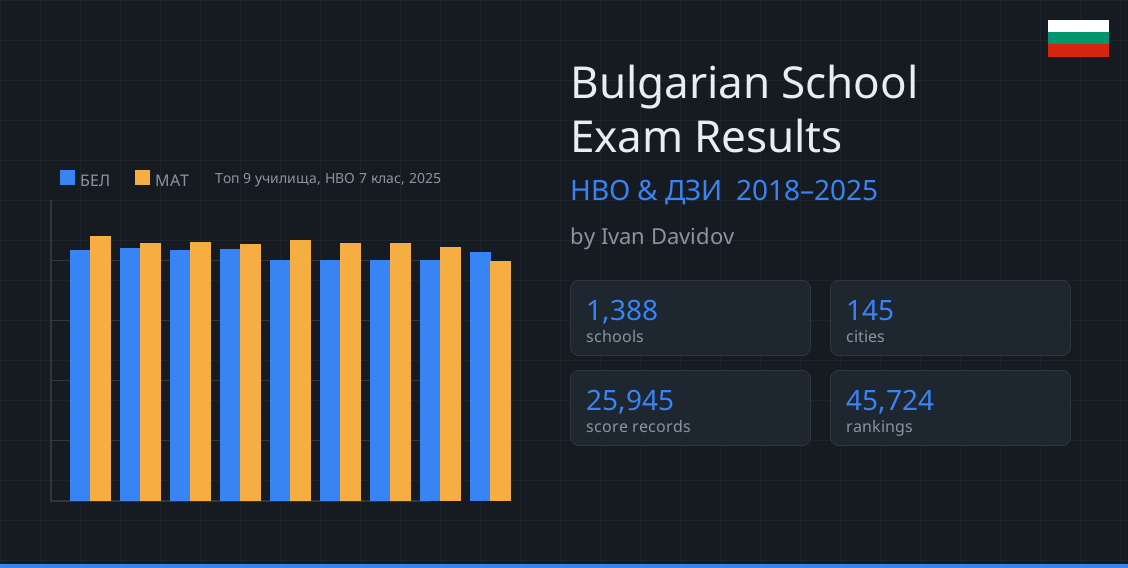
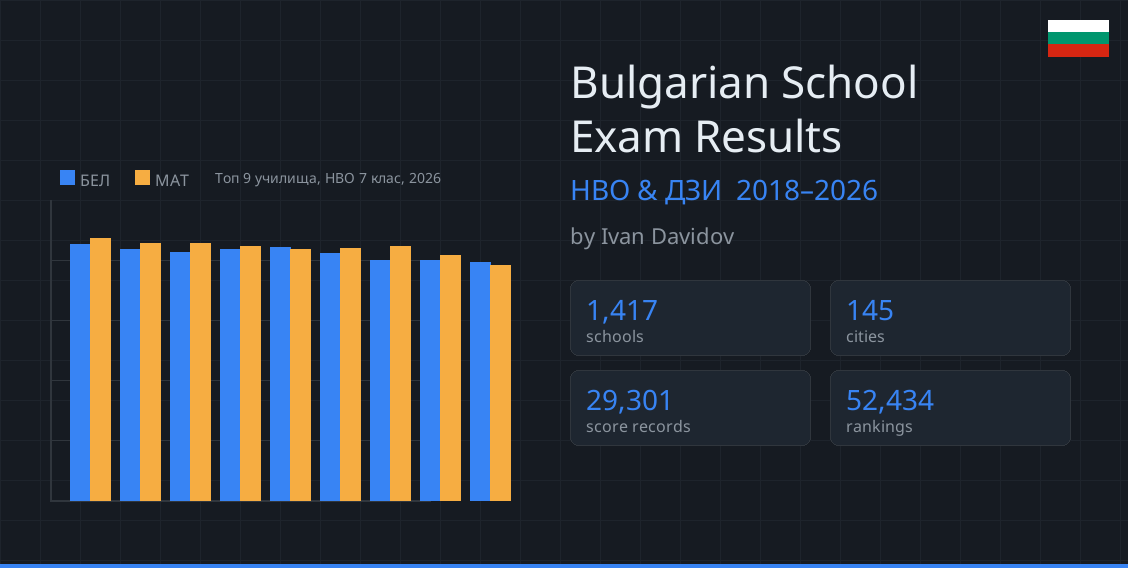
Refresh Kaggle dataset for 2026 data
- prepare.py: derive years from API yearsRange and ranking files
  instead of hardcoded 2018-2025
- README: 2018-2026 coverage, new row counts, placeholder-years caveats
- cover: regenerated with 2026 top-9 chart and updated stat tiles
- kernel-metadata.json: enable notebook publishing via kaggle CLI
- AGENTS.md: document notebook push workflow, refresh row counts

diff --git a/kaggle/prepare.py b/kaggle/prepare.py
@@ -35,8 +35,6 @@ with open(os.path.join(OUT, 'cities.csv'), 'w', newline='', encoding='utf-8') as
 print('cities.csv')
 
 # --- scores.csv (main dataset: one row per school per grade per year) ---
-YEARS = list(range(2018, 2026))
-
 with open(os.path.join(OUT, 'scores.csv'), 'w', newline='', encoding='utf-8') as f:
     w = csv.writer(f)
     w.writerow(['grade', 'year', 'city', 'school_code', 'bel_score', 'mat_score', 'bel_students', 'mat_students'])
@@ -45,6 +43,7 @@ with open(os.path.join(OUT, 'scores.csv'), 'w', newline='', encoding='utf-8') as
         data_path = os.path.join(API, grade, 'data.json')
         with open(data_path) as gf:
             grade_data = json.load(gf)
+        YEARS = grade_data['yearsRange']
 
         for city_slug, city_info in grade_data['cities'].items():
             for school_code, school in city_info['schools'].items():
@@ -72,12 +71,14 @@ with open(os.path.join(OUT, 'rankings.csv'), 'w', newline='', encoding='utf-8') 
     w = csv.writer(f)
     w.writerow(['grade', 'year', 'type', 'rank', 'adjusted_rank', 'school_code', 'city', 'bel_score', 'mat_score', 'score'])
 
+    def ranking_years(*dirs):
+        d = os.path.join(API, 'rankings', *dirs)
+        return sorted(int(fn[:-5]) for fn in os.listdir(d) if fn.endswith('.json'))
+
     for grade in ['4', '7', '10', '12']:
         # Year rankings
-        for year in YEARS:
+        for year in ranking_years(grade):
             path = os.path.join(API, 'rankings', grade, f'{year}.json')
-            if not os.path.exists(path):
-                continue
             with open(path) as rf:
                 rdata = json.load(rf)
             for s in rdata['schools']:
@@ -86,10 +87,8 @@ with open(os.path.join(OUT, 'rankings.csv'), 'w', newline='', encoding='utf-8') 
                             s.get('belScore', ''), s.get('matScore', ''), s.get('score', '')])
 
         # Median rankings
-        for year in range(2020, 2026):
+        for year in ranking_years('median', grade):
             path = os.path.join(API, 'rankings', 'median', grade, f'{year}.json')
-            if not os.path.exists(path):
-                continue
             with open(path) as rf:
                 rdata = json.load(rf)
             for s in rdata['schools']:

diff --git a/kaggle/generate_cover.py b/kaggle/generate_cover.py
@@ -40,7 +40,7 @@ gap = 10
 
 # Load actual top-10 scores from grade 7, year 2025 for realistic data
 try:
-    with open(os.path.join(API, 'rankings', '7', '2025.json')) as f:
+    with open(os.path.join(API, 'rankings', '7', '2026.json')) as f:
         rdata = json.load(f)
     top_schools = rdata['schools'][:9]
     bel_scores = [s['belScore'] for s in top_schools]
@@ -75,7 +75,7 @@ draw.rectangle([(lx, ly), (lx + 14, ly + 14)], fill=BAR1)
 draw.text((lx + 20, ly - 2), "БЕЛ", fill=TEXT_DIM, font=font(16))
 draw.rectangle([(lx + 75, ly), (lx + 89, ly + 14)], fill=BAR2)
 draw.text((lx + 95, ly - 2), "МАТ", fill=TEXT_DIM, font=font(16))
-draw.text((lx + 155, ly - 2), "Топ 9 училища, НВО 7 клас, 2025", fill=TEXT_DIM, font=font(14))
+draw.text((lx + 155, ly - 2), "Топ 9 училища, НВО 7 клас, 2026", fill=TEXT_DIM, font=font(14))
 
 # --- Right side: text content ---
 tx = 570
@@ -84,17 +84,17 @@ draw.text((tx, 50), "Bulgarian School", fill=TEXT, font=font(44))
 draw.text((tx, 104), "Exam Results", fill=TEXT, font=font(44))
 
 # Subtitle with accent
-draw.text((tx, 170), "НВО & ДЗИ  2018–2025", fill=ACCENT, font=font(28))
+draw.text((tx, 170), "НВО & ДЗИ  2018–2026", fill=ACCENT, font=font(28))
 
 # Author
 draw.text((tx, 220), "by Ivan Davidov", fill=TEXT_DIM, font=font(22))
 
 # Stats boxes
 stats = [
-    ("1,388", "schools"),
+    ("1,417", "schools"),
     ("145", "cities"),
-    ("25,945", "score records"),
-    ("45,724", "rankings"),
+    ("29,301", "score records"),
+    ("52,434", "rankings"),
 ]
 
 sy = 280

diff --git a/kaggle/README.md b/kaggle/README.md
@@ -1,4 +1,4 @@
-# Bulgarian School Exam Results — НВО and ДЗИ (2018–2025)
+# Bulgarian School Exam Results — НВО and ДЗИ (2018–2026)
 
 Comprehensive dataset of national exam results for all schools in Bulgaria, covering the National External Assessment (НВО) for grades 4, 7, and 10, and the State Matriculation Exams (ДЗИ) for grade 12.
 
@@ -13,14 +13,14 @@ Raw data originates from the Bulgarian Open Data Portal ([data.egov.bg](https://
 
 ## Files
 
-### scores.csv (25,945 rows)
+### scores.csv (29,301 rows)
 
 One row per school per grade per year where at least one exam score exists.
 
 | Column | Type | Description |
 |--------|------|-------------|
 | grade | int | Grade level: 4, 7, 10, or 12 |
-| year | int | Exam year (2018–2025) |
+| year | int | Exam year (2018–2026) |
 | city | string | City slug (e.g., "sofia", "plovdiv") |
 | school_code | string | Unique school identifier |
 | bel_score | float | Bulgarian Language and Literature score |
@@ -30,7 +30,7 @@ One row per school per grade per year where at least one exam score exists.
 
 **Score scale:** 0–100 for grades 4, 7, 10; 2–6 for grade 12 (ДЗИ).
 
-### rankings.csv (45,724 rows)
+### rankings.csv (52,434 rows)
 
 School rankings by composite score (average of BEL and MAT). Two types:
 
@@ -50,7 +50,7 @@ School rankings by composite score (average of BEL and MAT). Two types:
 | mat_score | float | MAT score (or median for type=median) |
 | score | float | Composite score |
 
-### schools.csv (1,414 rows)
+### schools.csv (1,417 rows)
 
 Master directory of all schools.
 
@@ -79,10 +79,17 @@ All cities where schools participate in national exams.
 
 | Grade | Exam | Years | Scale |
 |-------|------|-------|-------|
-| 4 | НВО (National External Assessment) | 2018–2025 | 0–100 |
-| 7 | НВО (National External Assessment) | 2018–2025 | 0–100 |
-| 10 | НВО (National External Assessment) | 2021–2025 | 0–100 |
-| 12 | ДЗИ (State Matriculation Exams) | 2018–2025 | 2–6 |
+| 4 | НВО (National External Assessment) | 2018–2026 | 0–100 |
+| 7 | НВО (National External Assessment) | 2018–2026 | 0–100 |
+| 10 | НВО (National External Assessment) | 2021–2026 | 0–100 |
+| 12 | ДЗИ (State Matriculation Exams) | 2018–2026 | 2–6 |
+
+### Data caveats
+
+A few grade/year slices are placeholder copies of adjacent years, kept for structural consistency with the source website. Exclude them from year-over-year, trend, or cohort analyses:
+
+- **Grade 4, 2020** — copy of 2019 (the exam was cancelled due to COVID-19)
+- **Grade 10, 2018–2020** — НВО for grade 10 was first held in 2021; earlier years mirror adjacent data (2018 = 2019, 2020 = 2021)
 
 ## Usage Ideas
 
@@ -100,4 +107,4 @@ MIT — free to use, modify, and redistribute with attribution.
 
 If you use this dataset, please cite:
 
-> Ivan Davidov, "Bulgarian School Exam Results — НВО and ДЗИ (2018–2025)", https://ivandavidov.github.io/nvo
+> Ivan Davidov, "Bulgarian School Exam Results — НВО and ДЗИ (2018–2026)", https://ivandavidov.github.io/nvo

diff --git a/AGENTS.md b/AGENTS.md
@@ -426,15 +426,16 @@ The `kaggle/` directory contains everything needed to publish and maintain the K
 ```text
 kaggle/
   dataset-metadata.json   Kaggle dataset metadata (title, subtitle, tags, resources)
+  kernel-metadata.json    Kaggle notebook metadata (for `kaggle kernels push`)
   README.md               dataset description (shown on Kaggle dataset page)
   notebook.ipynb           exploratory analysis notebook (published on Kaggle)
   prepare.py               converts JSON API → 4 CSV files in data/
   generate_cover.py        generates cover.png for the Kaggle dataset page
   cover.png                generated cover image (1128×568)
   data/                    generated CSV files (gitignored)
-    scores.csv             25,945 rows — scores per school/grade/year
-    rankings.csv           45,724 rows — annual + 3-year median rankings
-    schools.csv            1,414 rows — school directory (data-driven: schools that appear in the data)
+    scores.csv             29,301 rows — scores per school/grade/year
+    rankings.csv           52,434 rows — annual + 3-year median rankings
+    schools.csv            1,417 rows — school directory (data-driven: schools that appear in the data)
     cities.csv             145 rows — city directory
 ```
 
@@ -455,6 +456,14 @@ python3 generate_cover.py
 After generating the CSVs, upload to Kaggle via the Kaggle web interface or CLI.
 
 The notebook (`notebook.ipynb`) is stored without outputs — Kaggle runs it server-side on publish.
+
+To publish the notebook from the repo (instead of editing on kaggle.com), use the Kaggle CLI with `kernel-metadata.json` (requires an API token in `~/.kaggle/kaggle.json`, created from Kaggle → Settings → API):
+```bash
+cd kaggle
+kaggle kernels push -p .
+kaggle kernels status johnddavidson/v1-0-initial-exploratory-analysis  # check the server-side run
+```
+`dataset_sources` in `kernel-metadata.json` is unpinned, so each push runs against the latest dataset version.
 
 ### Kaggle links
 - Dataset: https://www.kaggle.com/datasets/johnddavidson/bulgarian-school-exam-results-20182025
